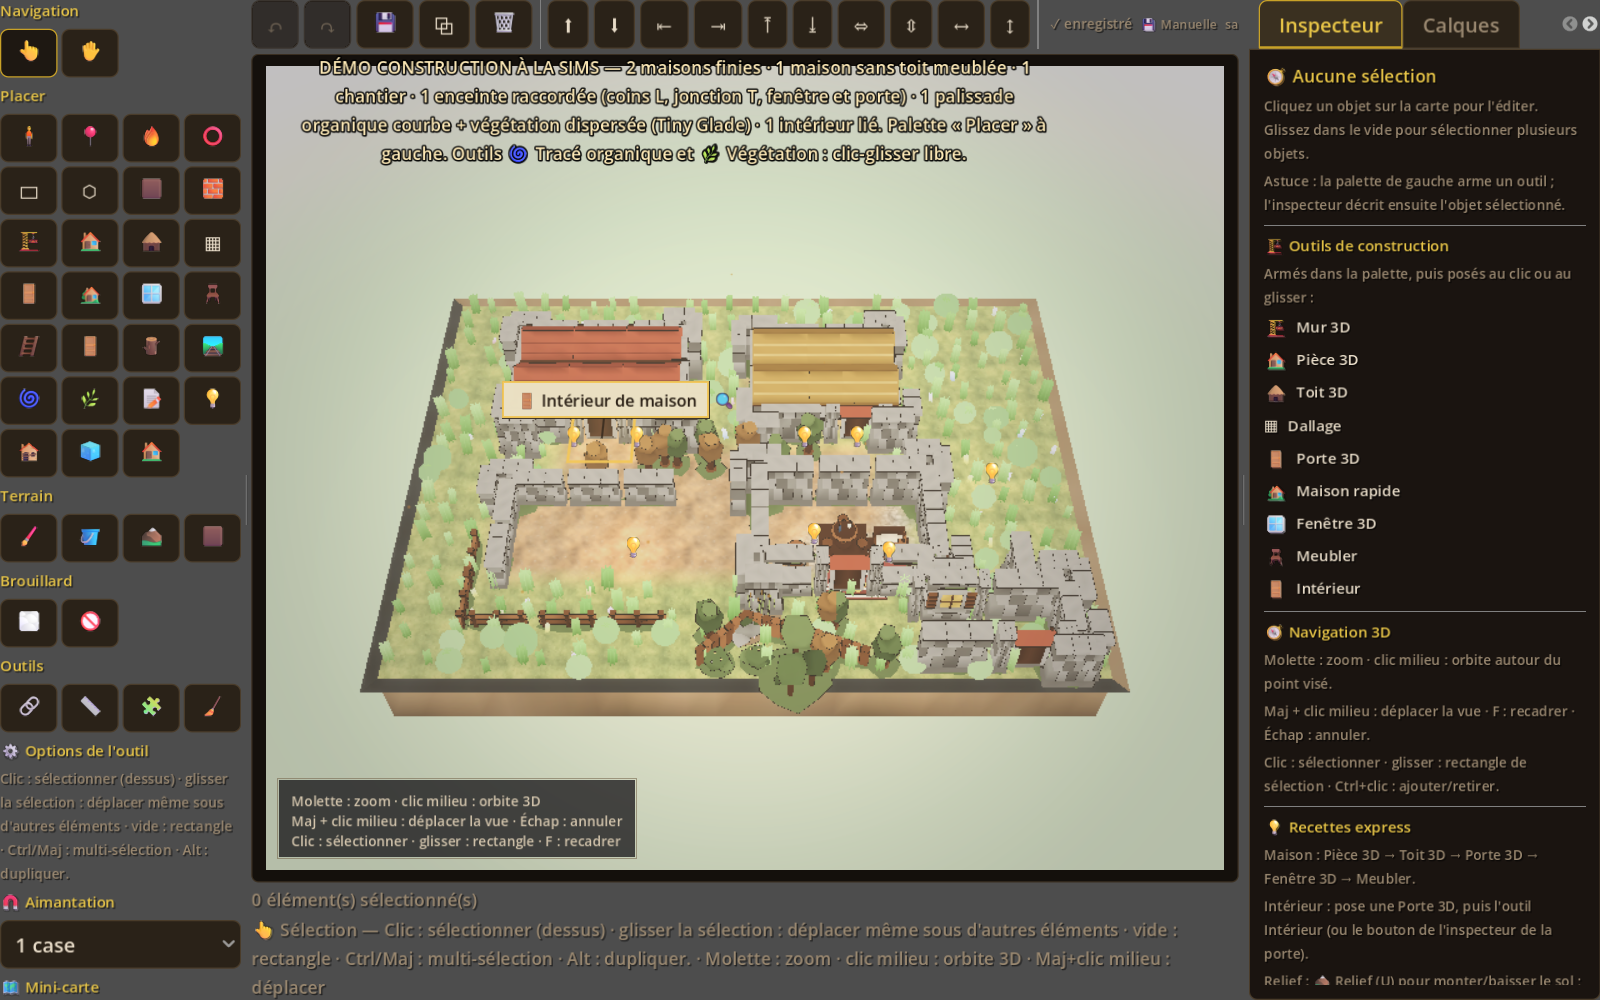
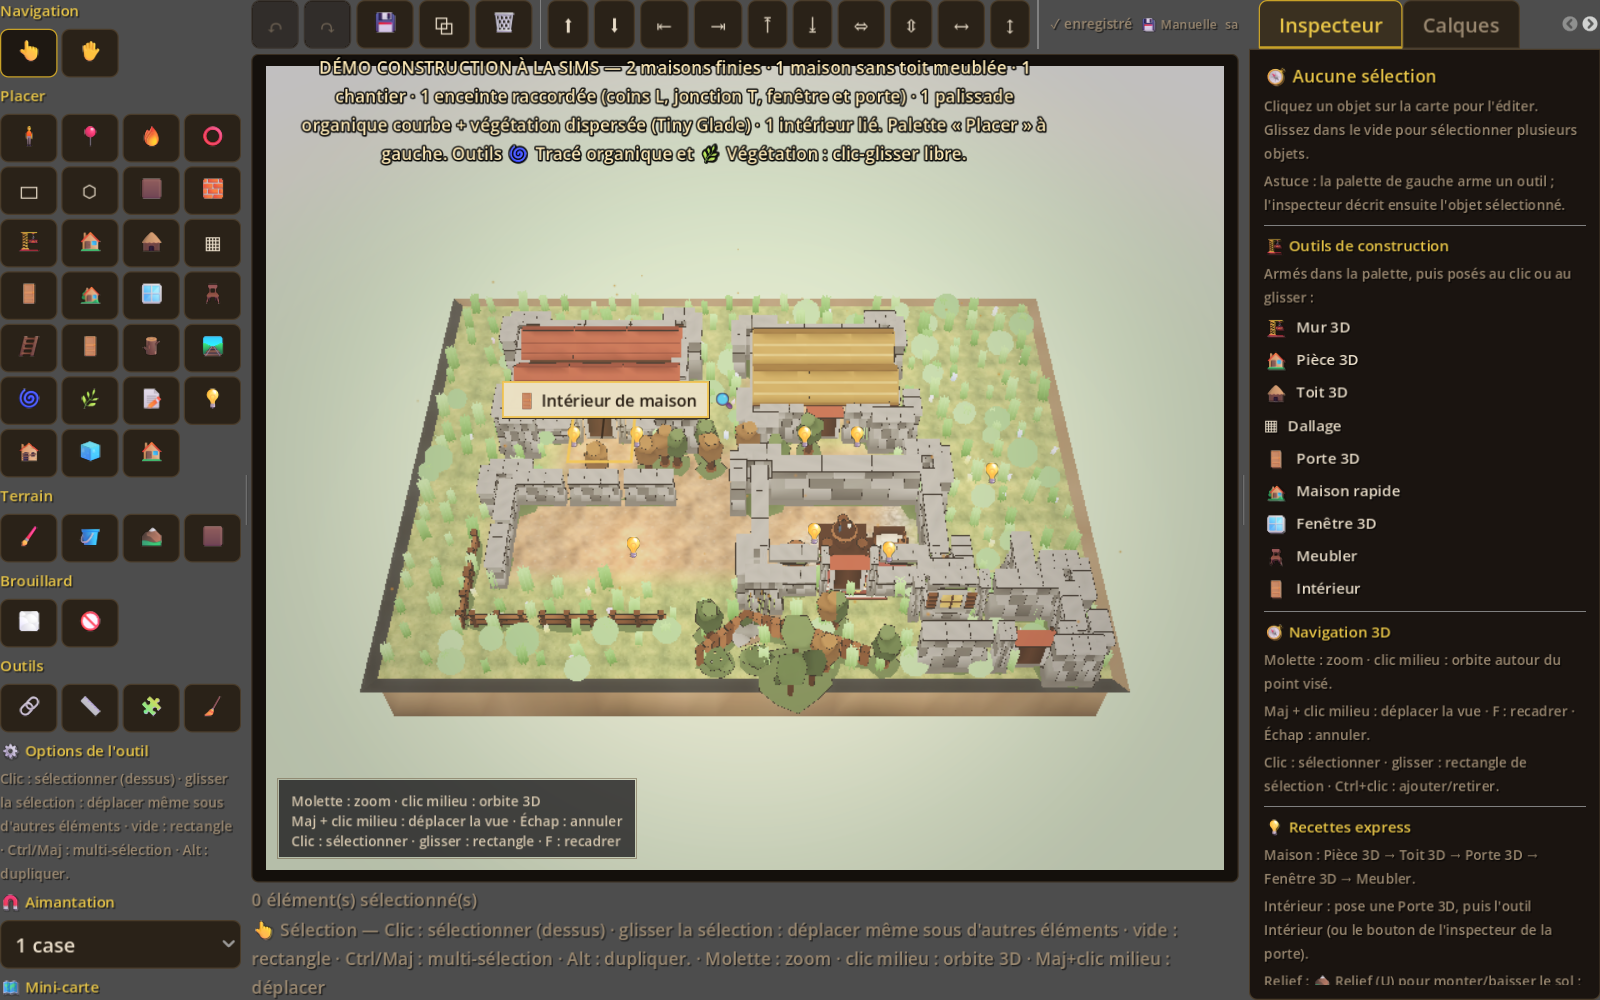
feat(construction): pieces et maisons en panneaux lisses + demo a jour

Changed region(s): [[0.4688, 0.403, 0.5938, 0.558], [0.5, 0.558, 0.5625, 0.589], [0.375, 0.403, 0.4062, 0.434]]

diff --git a/docs/MAP_EDITOR.md b/docs/MAP_EDITOR.md
@@ -229,7 +229,7 @@ clic, le glisser et le relâchement (équivalent des `MouseLogic_*` de Meownopol
 | Placer | 🟫 Plateforme | `7` | Trace une plateforme surélevée (étage, pont, estrade) |
 | Placer | 🧱 Mur | `8` | Trace un mur de plateau (occultation, vue VTT) |
 | Placer | 🏗 Mur 3D | — | Clic-glisser : **panneau de mur lissé** continu (plus de micro-segments en escalier), aligné au terrain ; hauteur réglable ; extrémités aimantées aux murs existants (prolongement, coin L, jonction T) |
-| Placer | 🏠 Pièce 3D | — | Clic-glisser un rectangle : **4 murs + 4 coins** fermés, hauteur réglable, prêts à recevoir porte, fenêtre et toit |
+| Placer | 🏠 Pièce 3D | — | Clic-glisser un rectangle : **4 panneaux de murs lissés + coins**, hauteur réglable, prêts à recevoir porte, fenêtre et toit |
 | Placer | 🛖 Toit 3D | — | Clic-glisser au-dessus d'une pièce : grille de **tuiles de toit 2 pans** à la hauteur réglée ; styles **Tuiles / Chaume / Croupe / Appentis** |
 | Placer | ▦ Dallage | — | Clic-glisser dans une pièce : sol **pierre/terre/herbe/sable/neige** et nivellement du terrain |
 | Placer | 🚪 Porte 3D | — | Clic sur un **mur 3D** : ouvre une baie (deux montants) et insère une porte à auvent |

diff --git a/docs/GUIDE_CARTE_25D.md b/docs/GUIDE_CARTE_25D.md
@@ -79,8 +79,8 @@ Outils terrain :
   lissé** continu, avec **hauteur réglable** ; **les extrémités s'aimantent aux
   murs existants** (prolongement, coin L, jonction T) et les façades (porte,
   fenêtre, auvent) peuvent s'aimanter dessus.
-- **Outil 🏠 Pièce 3D** : glisse un rectangle pour fermer une pièce (4 murs + 4
-  coins d'angle), puis pose porte/fenêtre/auvent et un toit.
+- **Outil 🏠 Pièce 3D** : glisse un rectangle pour fermer une pièce (4 panneaux
+  de murs lissés + coins), puis pose porte/fenêtre/auvent et un toit.
 - **Outil 🛖 Toit 3D** : glisse un rectangle au-dessus de la pièce ; génère une
   grille de tuiles à la hauteur réglée, avec styles **Tuiles / Chaume / Croupe /
   Appentis**.
